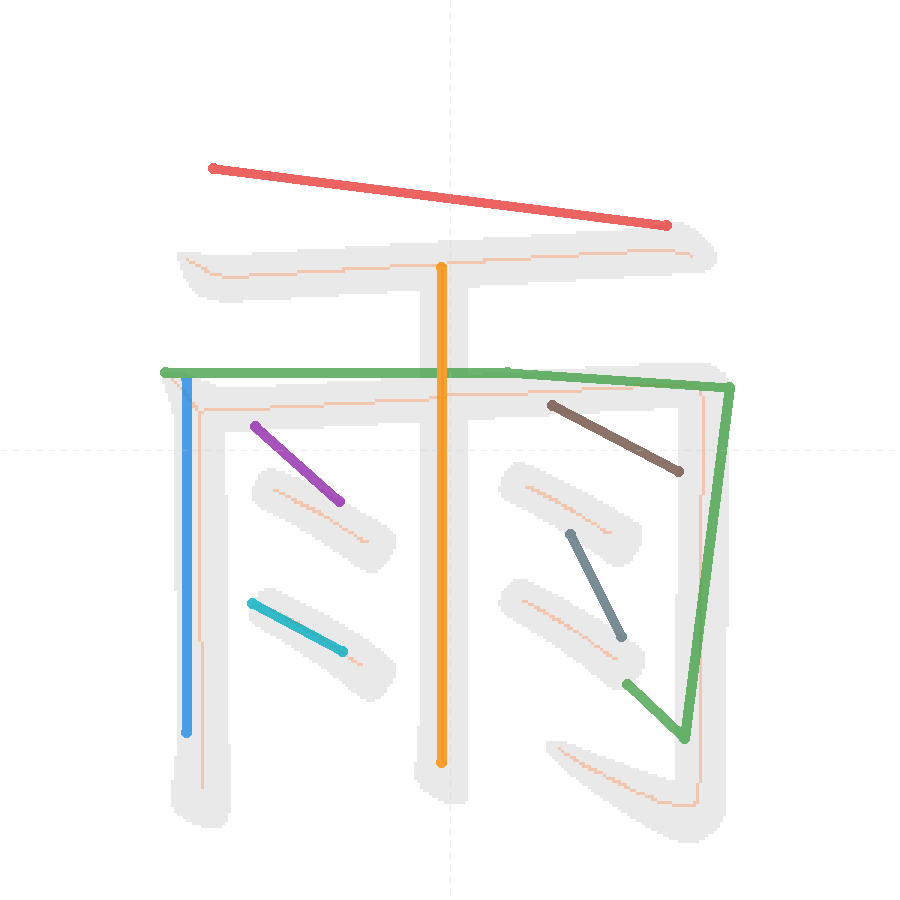
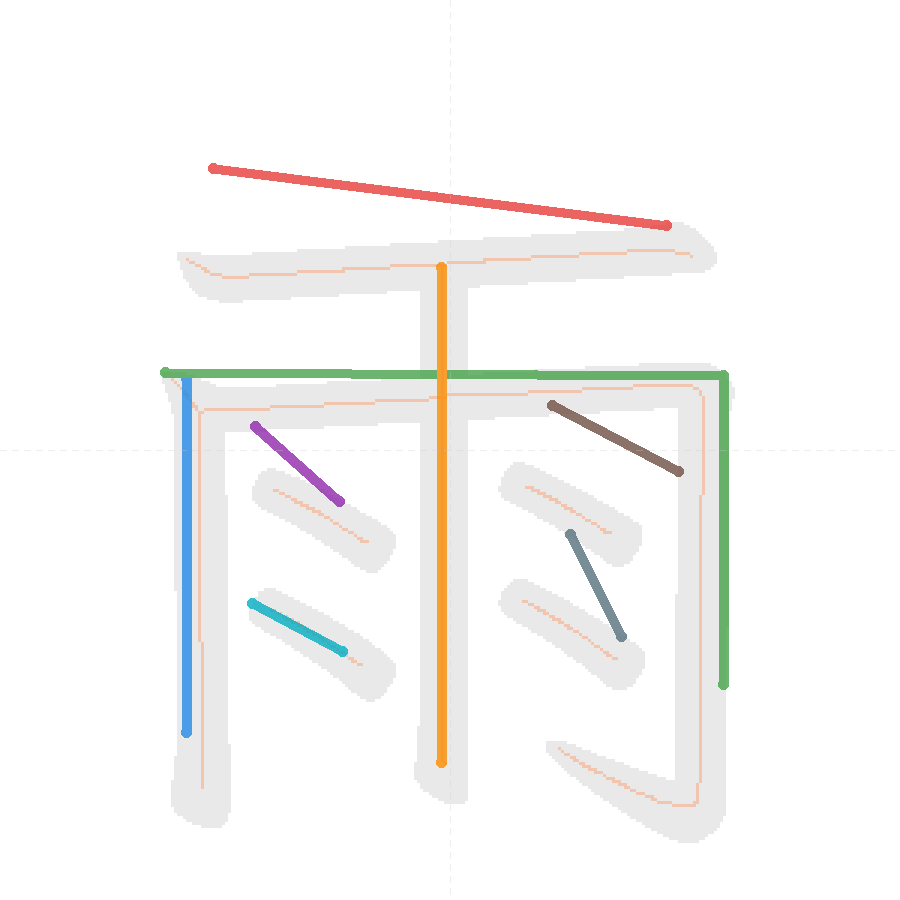
6g角点検出改善: H/V遷移ベースのコーナー検出
- 角点検出を「最大角度変化」から「H/V遷移を形成する点」に変更
- 末尾フック（㇆のはね部分）を角点と誤検出する問題を修正
- 雨の㇆が台形→直角に改善（28件発火、旧版27件）
- 全80文字再生成

diff --git a/auto_strokes.py b/auto_strokes.py
@@ -1944,26 +1944,36 @@ def generate_strokes(kanji: str, debug=False) -> dict:
         # 台形化を防止: 角点を調整して完全な直角を作る
         # ㇕/㇆ は漢字では常に直角（水平→垂直 or 垂直→水平）
         if any(c in stroke_type for c in ['㇕', '㇆']) and len(simplified) >= 3:
-            # 角点を見つける（内部点で最大の方向変化）
+            # 角点を見つける（H/V遷移を形成する点を優先）
+            # start→ci方向とci→end方向でH/Vが切り替わる点が真の角
             best_ci = None
             best_angle_change = 0
             for ci in range(1, len(simplified) - 1):
-                prev = simplified[ci - 1]
-                curr = simplified[ci]
-                nxt = simplified[ci + 1]
-                angle_in = math.atan2(curr[1] - prev[1], curr[0] - prev[0])
-                angle_out = math.atan2(nxt[1] - curr[1], nxt[0] - curr[0])
-                change = abs(math.degrees(angle_out - angle_in))
-                if change > 180:
-                    change = 360 - change
-                if change > best_angle_change:
-                    best_angle_change = change
-                    best_ci = ci
-            if best_ci is not None and best_angle_change > 30:
+                # start→ciのグローバル方向
+                dx_s = simplified[ci][0] - simplified[0][0]
+                dy_s = simplified[ci][1] - simplified[0][1]
+                # ci→endのグローバル方向
+                dx_e = simplified[-1][0] - simplified[ci][0]
+                dy_e = simplified[-1][1] - simplified[ci][1]
+                s_is_h = abs(dx_s) > abs(dy_s)
+                e_is_h = abs(dx_e) > abs(dy_e)
+                if s_is_h != e_is_h:  # H/V遷移がある点のみ候補
+                    prev = simplified[ci - 1]
+                    curr = simplified[ci]
+                    nxt = simplified[ci + 1]
+                    angle_in = math.atan2(curr[1] - prev[1], curr[0] - prev[0])
+                    angle_out = math.atan2(nxt[1] - curr[1], nxt[0] - curr[0])
+                    change = abs(math.degrees(angle_out - angle_in))
+                    if change > 180:
+                        change = 360 - change
+                    if change > best_angle_change:
+                        best_angle_change = change
+                        best_ci = ci
+            if best_ci is not None and best_angle_change > 20:
                 start = simplified[0]
                 corner = simplified[best_ci]
                 end = simplified[-1]
-                # セグメント方向判定
+                # セグメント方向判定（start→corner, corner→end）
                 dx1 = corner[0] - start[0]
                 dy1 = corner[1] - start[1]
                 dx2 = end[0] - corner[0]
